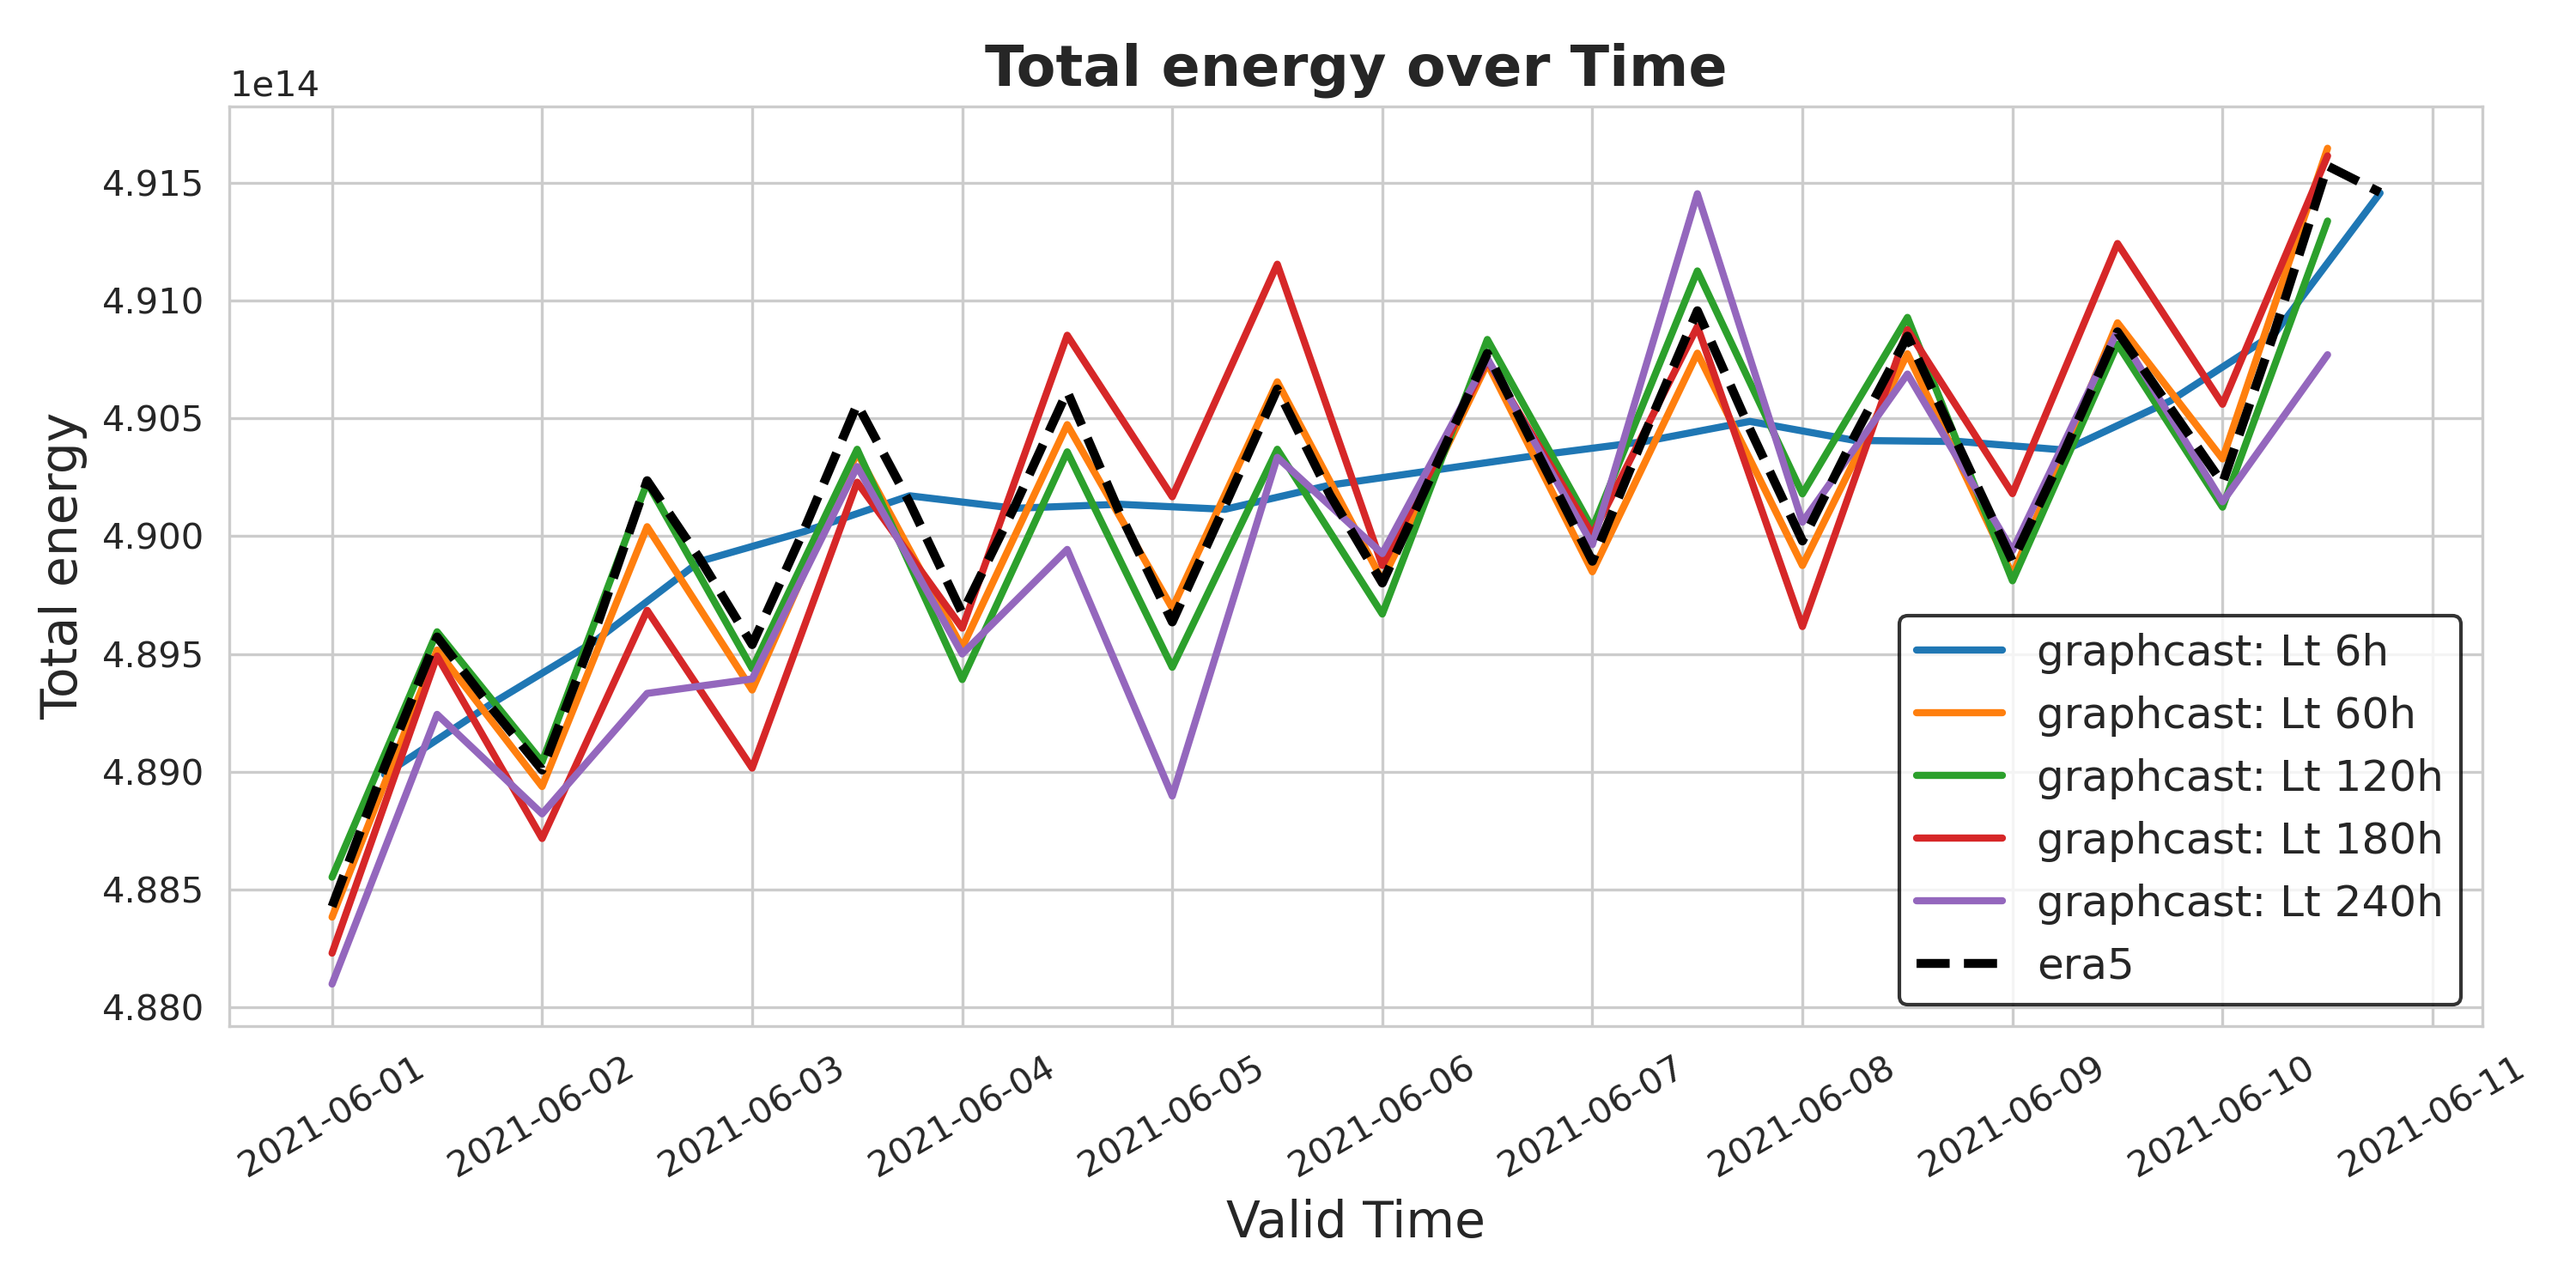
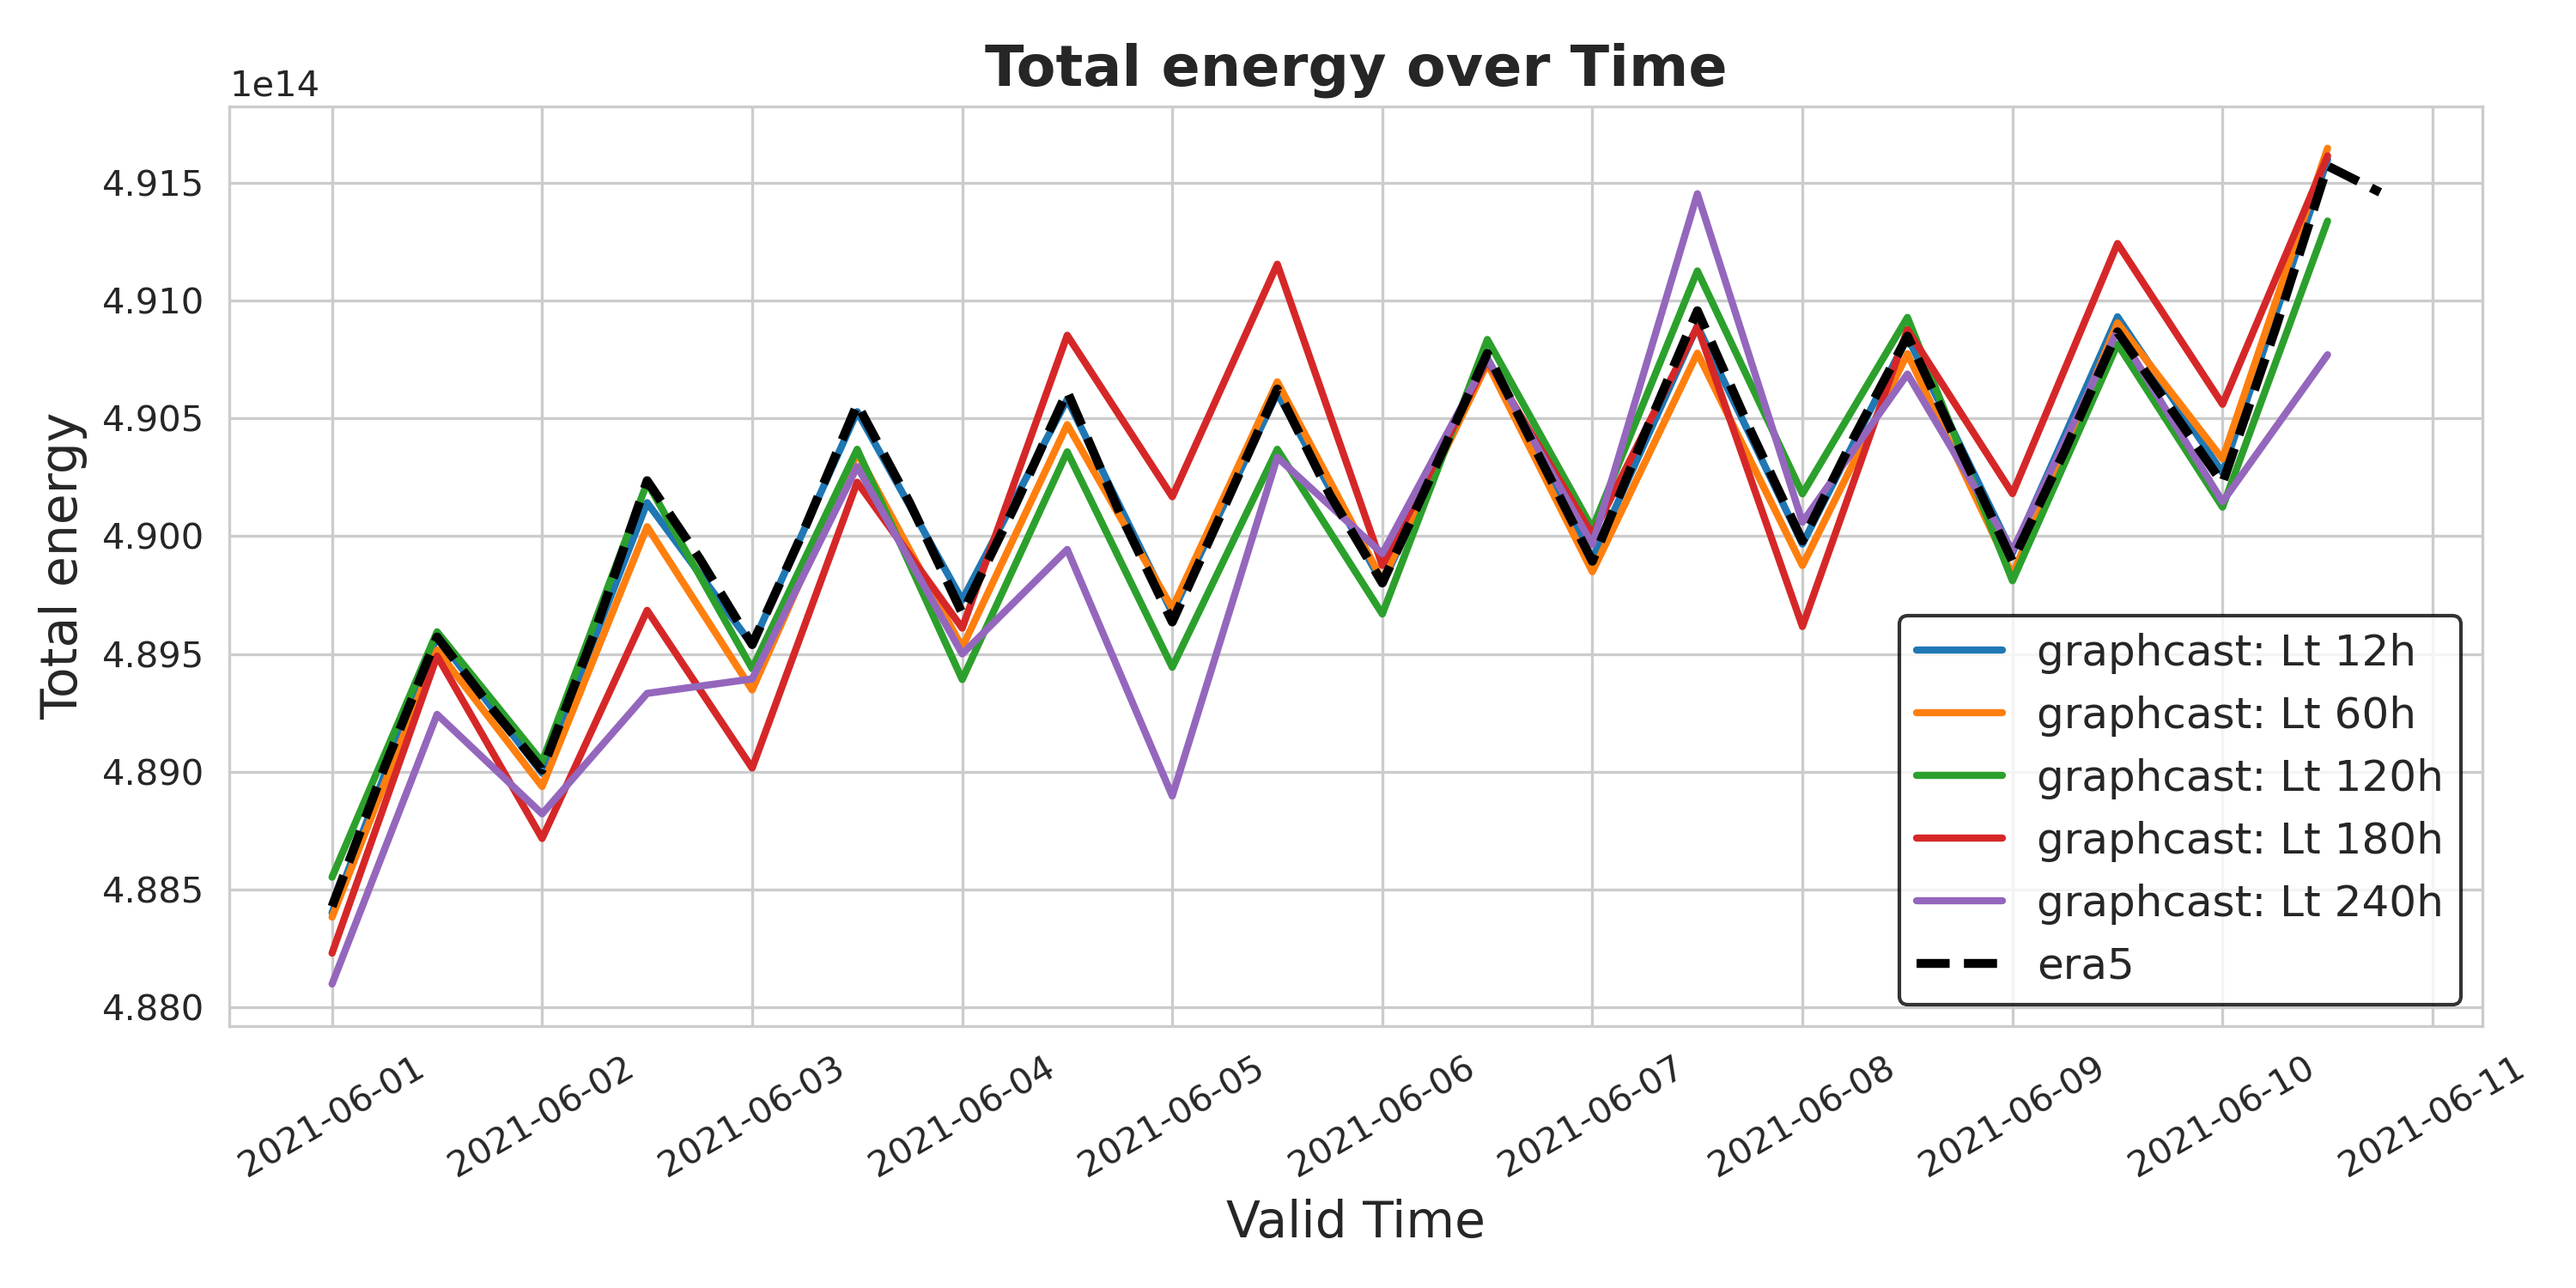
update docs

diff --git a/docs/configuration.md b/docs/configuration.md
@@ -34,7 +34,9 @@ Example configuration:
     "correlation": ["all"],
     "correlation_map": ["all"],
     "potential_vorticity": ["all"],
-    "humidity_temperature": ["all"]
+    "humidity_temperature": ["all"],
+    "energy_conservation": ["all"],
+    "mass_conservation": ["all"],
   },
   "spatial": {
     "pressure_levels": 3,
@@ -57,12 +59,7 @@ Example configuration:
     "histogram": false,
     "vertical_profile": false,
     "summary_stats": ["mean", "stdev", "min", "max"],
-    "spatial_slice": {
-      "enabled": true,
-      "variable": "geostrophic_wind_ratio",
-      "level": 500,
-      "samples": 3
-    }
+    "spatial_slice": {"enabled": true, "variable": "geostrophic_wind_ratio", "level": 500, "samples": 3}
   }
 }
 ```
@@ -117,7 +114,9 @@ Default: *(required — must specify at least one metric)*
     "correlation": ["all"],
     "correlation_map": ["all"],
     "potential_vorticity": ["potential_vorticity"],
-    "humidity_temperature": ["relative_humidity"]
+    "humidity_temperature": ["relative_humidity"],
+    "energy_conservation": ["energy", "total_energy"],
+    "mass_conservation": ["total_mass"]
   },
 ```
 
@@ -141,18 +140,18 @@ Defines the temporal subset of data to be used.
 
 | Key                    | Type   | Description                                                       | Default             |
 | ---------------------- | ------ | ----------------------------------------------------------------- | ------------------- |
-| `start`                | string | Start date in `YYYYMMDD` format.                                  | *(required)*        |
-| `end`                  | string | End date in `YYYYMMDD` format.                                    | *(required)*        |
+| `start`                | string | Start date in `YYYYMMDD` format. (included)                                 | *(required)*        |
+| `end`                  | string | End date in `YYYYMMDD`  format. (included)                                    | *(required)*        |
 | `num_lead_times`       | int    | Number of lead times to include from each base time.              | `1`                 |
 | `stride_hours`         | int    | Time step between lead times in hours.                            | `6`                 |
 | `sample_percent`       | float  | Percentage of valid times to sample randomly (select 100 to process all samples in specified time range).                     | `1`                 |
 | `custom_times`         | object | Allows selecting specific valid times instead of random sampling. | disabled by default |
 | `custom_times.enabled` | bool   | If `true`, `custom_times.times` list is used.                     | `false`             |
-| `custom_times.times`   | list   | Specific times to include, in `YYYYMMDD_HH` format.               | `[]`                |
+| `custom_times.times`   | list   | Specific valid times to include, in `YYYYMMDD_HH` format.               | `[]`                |
 
 ---
 
-Note: `valid_times` are selected from time range `start : end - num_lead_times * stride_hours`, so that each `lead_time` has equal number of samples (in total).
+Note: Currently all available samples with `valid_time` in time range are selected. `dataset.py` also supports option to select `valid_times` from time range `start : end - num_lead_times * stride_hours`, so that each `lead_time` has equal number of samples (in total).
 
 Note: When in `custom_times` mode, adjust number of leadtimes per valid time with `num_lead_times` and `sample_percent`.
 
@@ -171,6 +170,10 @@ Configures postprocessing and plotting.
 | `spatial_slice.variable`           | string       | Variable to plot.                                                      | *(required if enabled)* |
 | `spatial_slice.level`              | int          | Pressure level (hPa) for slice.                                        | *(required if enabled)* |
 | `spatial_slice.samples`            | int          | Number of random samples to plot.                                      | *(required if enabled)* |
+| `spatial_average`                 | bool         | Whether to generate spatial averages maps.                                 | `false`                 |
+| `time_series`                 | bool         | Whether to generate time series.                                 | `false`                 |
+| `correlation`                 | bool         | Whether to generate correlation statistics, and bivariate histograms.                                 | `false`                 |
+| `correlation_map`                 | bool         | Whether to generate correlation maps.                                 | `false`                 |
 
 ---
 

diff --git a/README.md b/README.md
@@ -27,6 +27,7 @@ Machine learning forecasts can appear statistically accurate while violating bas
 * ✅ **hydrostatic balance**
 * ✅ **humidity–temperature consistency**
 * ✅ **potential vorticity**
+* ✅ **energy & mass conservation**
 
 **Spatial/temporal metrics**:
 * ✅ **correlation**
@@ -109,8 +110,11 @@ python pace/postprocess.py
 
 ### Currently supported plots:
 * ✅ **histograms**
+* ✅ **bivariate histograms**
 * ✅ **vertical profiles**
 * ✅ **spatial slices**
+* ✅ **spatial averages**
+* ✅ **time series**
 
 Output: figures per metric - model leadtime comparison, as well as comparison model vs physical reference
 
@@ -126,13 +130,14 @@ PACE-Toolkit/
 ├── pace/                
 │   ├── configs/
 |   |   ├── config.json  # Main configuration file
-│   ├── evaluator.py     # Core evaluation code
 │   ├── metrics/         # Physical consistency metrics
 │   ├── utils/
 │   |   ├── dataset.py   # Dataloader
 │   |   ├── plot_utils/     
+│   |   ├── parsers/     # File and directory parsing scripts  
+│   ├── evaluator.py     # Core evaluation code 
 │   ├── postprocess.py   # Postprocessing & visualization    
-│   ├── plots            # Some output figures     
+│   ├── plots/            # Some output figures     
 ├── .gitignore
 ├── LICENSE
 ├── README.md
